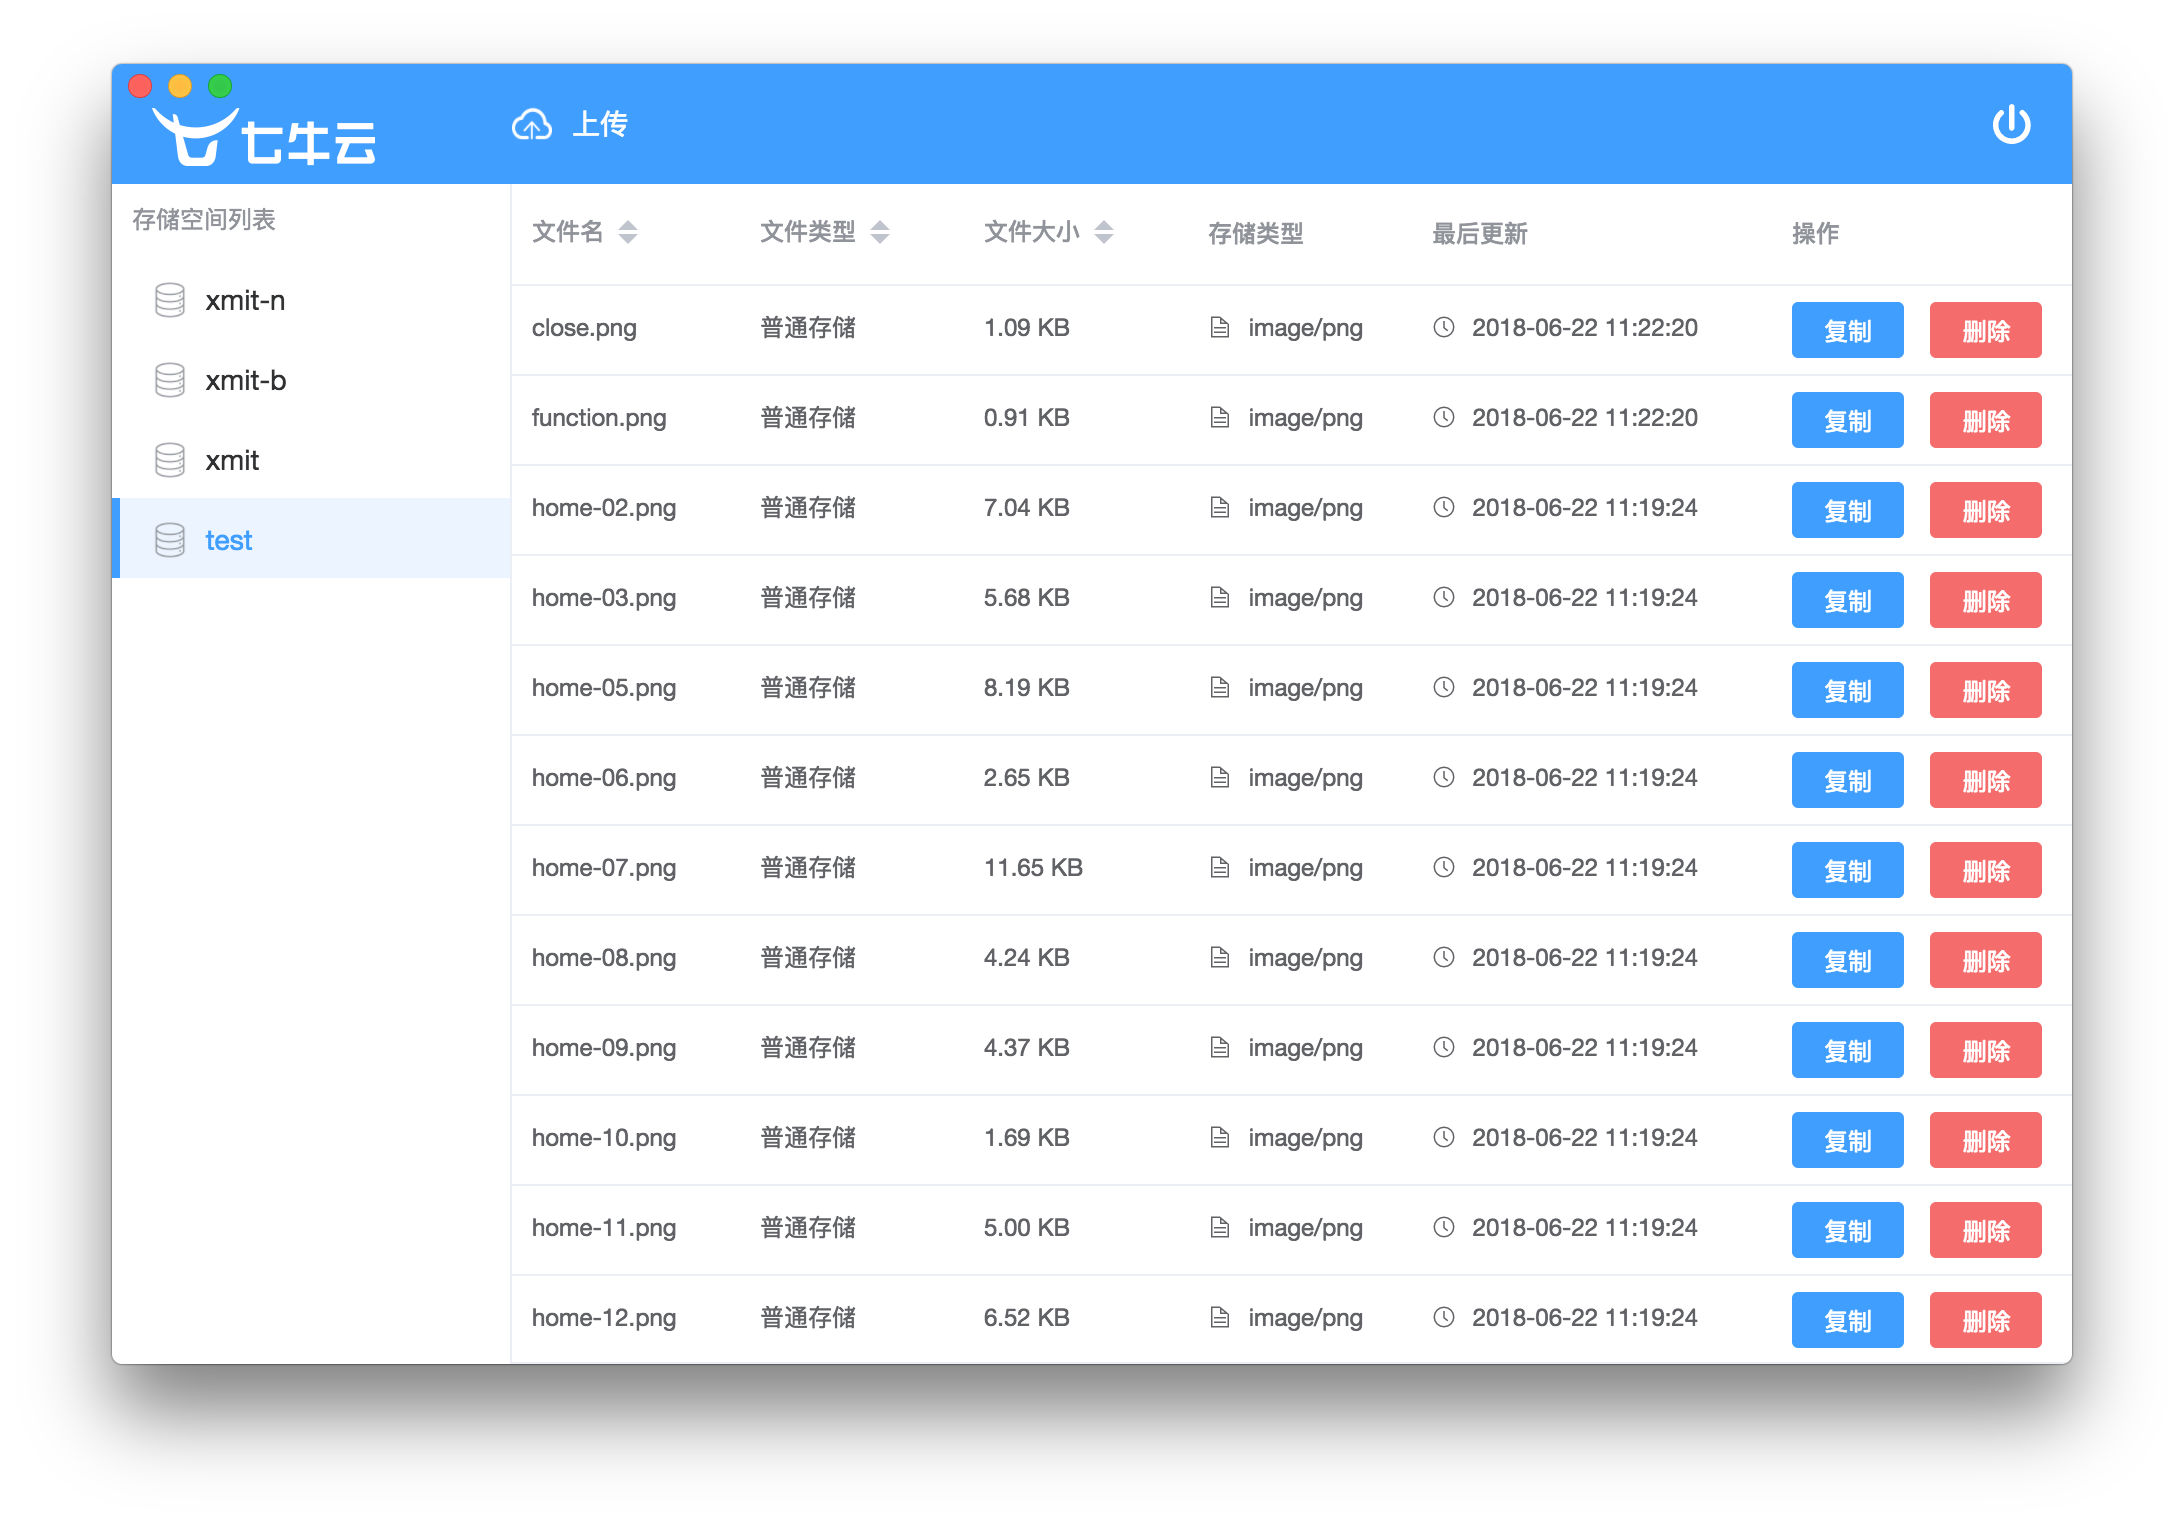
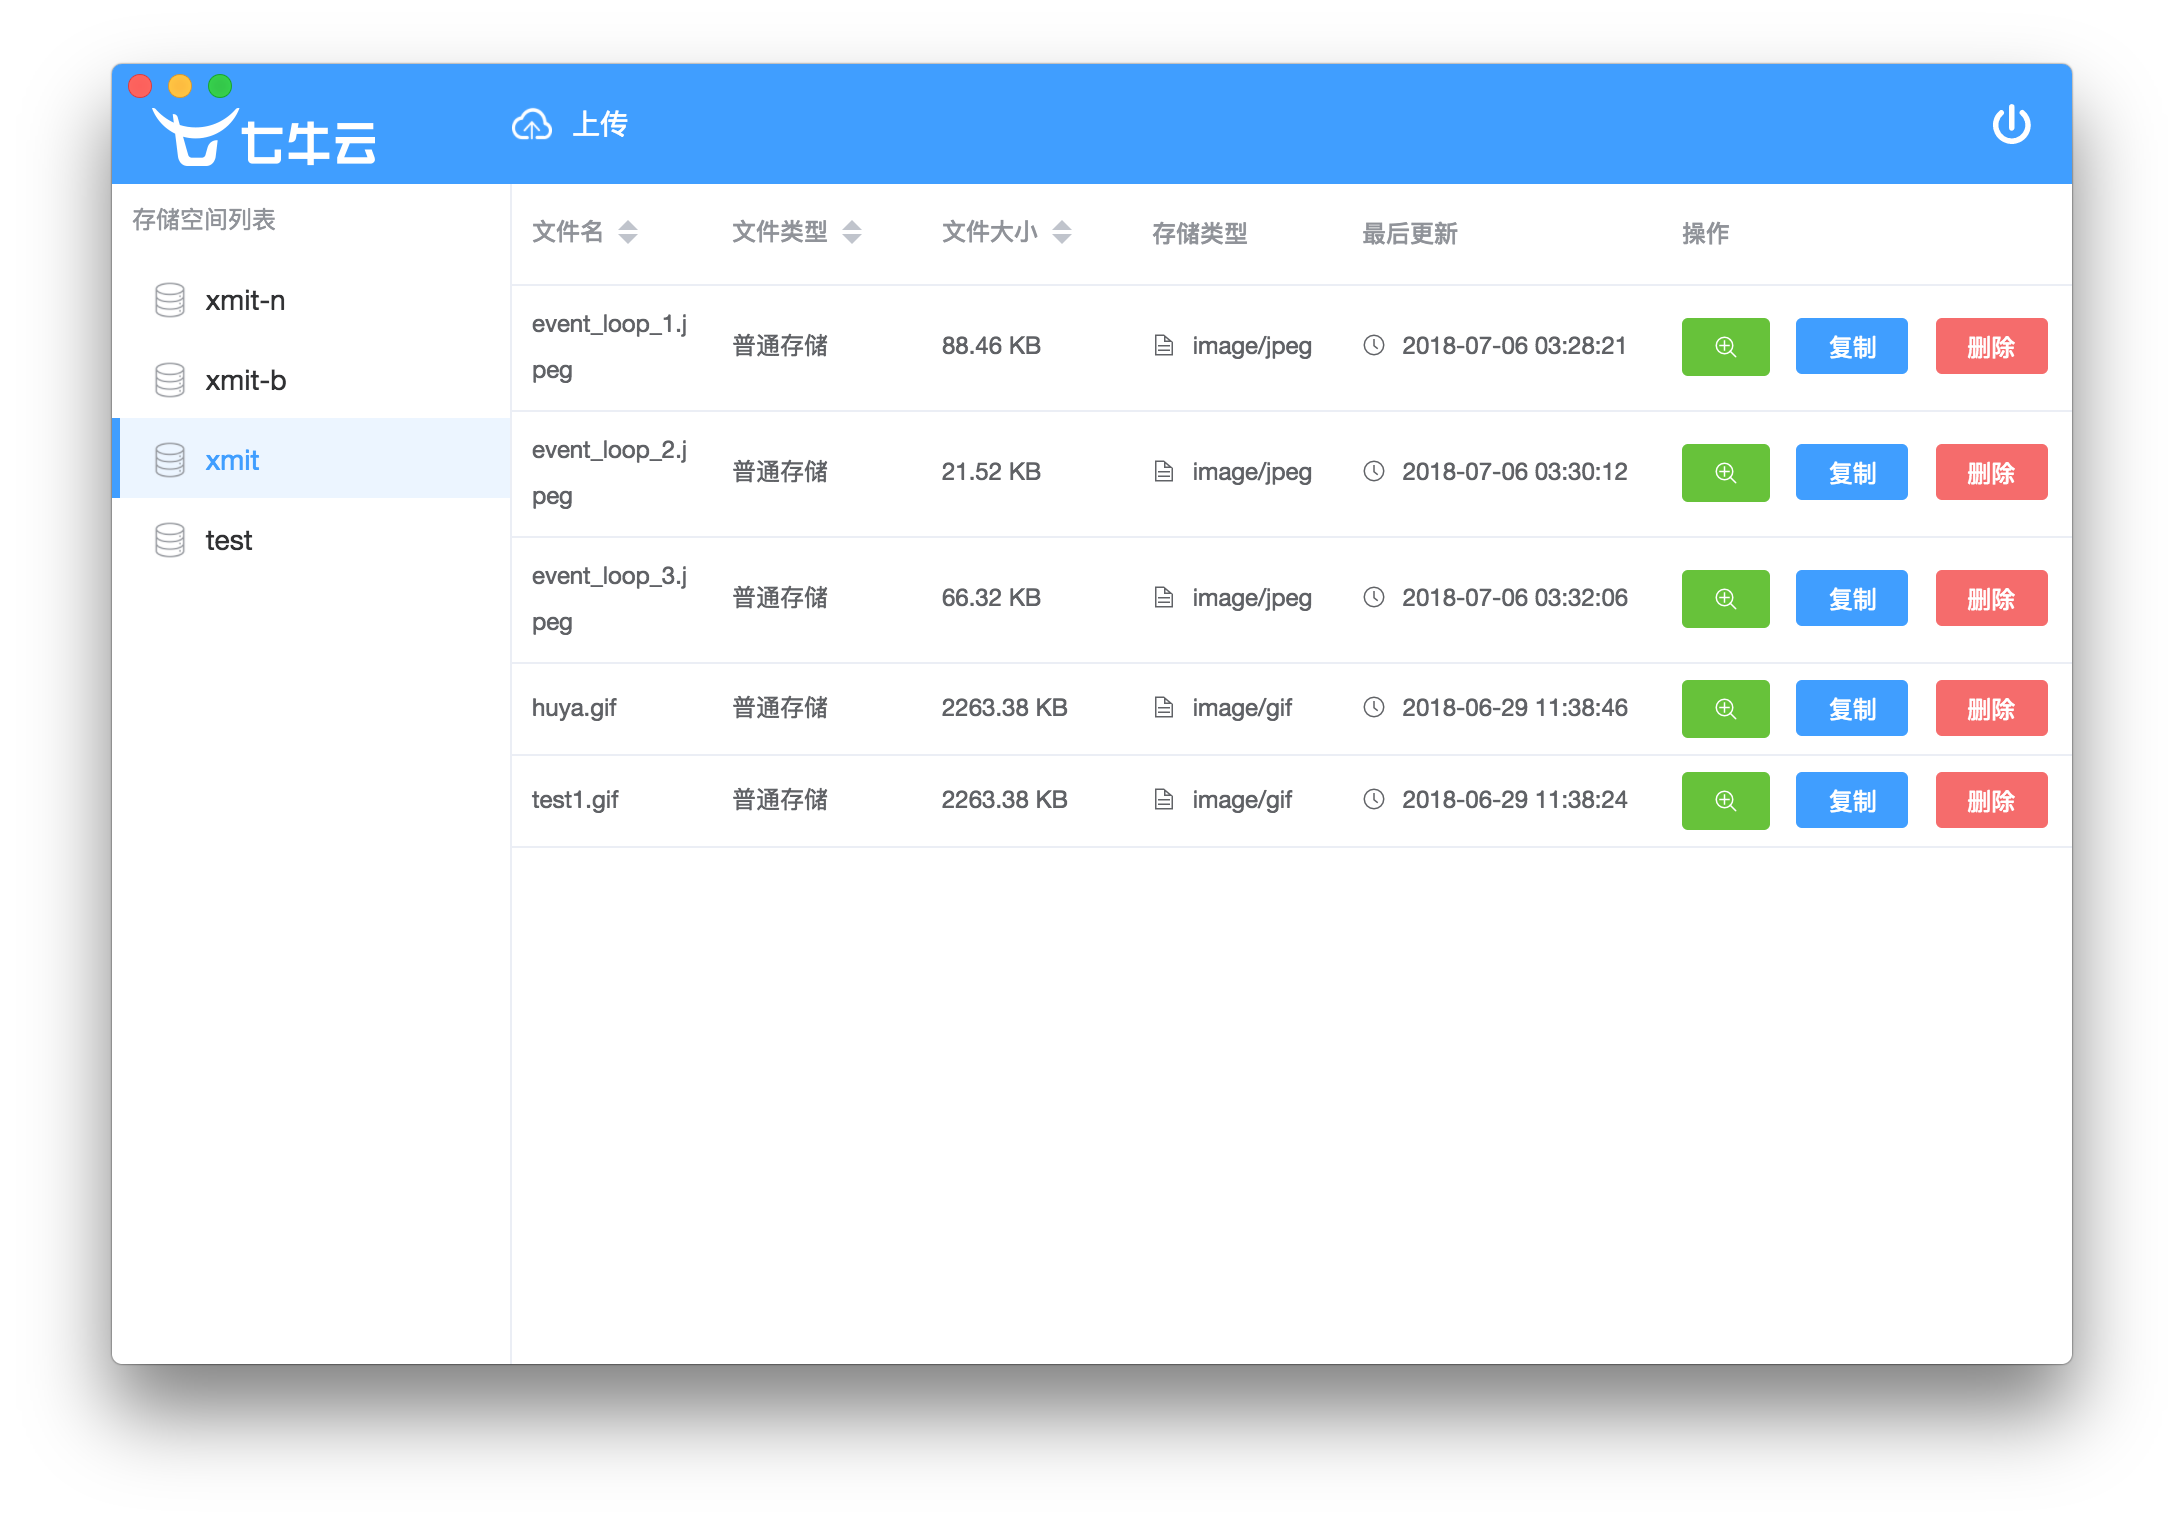
新增图片预览与下载功能

diff --git a/src/renderer/components/Manage/List.vue b/src/renderer/components/Manage/List.vue
@@ -1,7 +1,7 @@
 <template>
   <div class="privileges-table">
     <el-table :data="filterTableData" style="width: 100%" v-loading="loading" max-height="590" size="small">
-      <el-table-column prop="key" label="文件名" sortable>
+      <el-table-column prop="key" label="文件名" sortable width="100">
       </el-table-column>
       <el-table-column prop="type" label="文件类型" sortable>
       </el-table-column>
@@ -17,14 +17,15 @@
           <span style="margin-left: 5px">{{ scope.row.mimeType }}</span>
         </template>
       </el-table-column>
-      <el-table-column label="最后更新" width="180">
+      <el-table-column label="最后更新" width="160">
         <template slot-scope="scope">
           <i class="el-icon-time"></i>
           <span style="margin-left: 5px">{{ scope.row.putTime }}</span>
         </template>
       </el-table-column>
-      <el-table-column label="操作" width="150">
+      <el-table-column label="操作" width="205">
         <template slot-scope="scope">
+          <el-button size="mini" type="success" icon="el-icon-zoom-in" @click="preview(scope.$index, scope.row)"></el-button>
           <el-button size="mini" type="primary" @click="handleEdit(scope.$index, scope.row)">复制</el-button>
           <el-button size="mini" type="danger" @click="handleDelete(scope.$index, scope.row)">删除</el-button>
         </template>
@@ -33,9 +34,14 @@
     <el-dialog :title="title" :visible.sync="dialogFormVisible" @close="close">
       <Dialog :url="url" :postData="postData" :action="action" @onData="updateData"></Dialog>
     </el-dialog>
-    <!-- <div class="pagination">
-      <Pagination></Pagination>
-    </div> -->
+    <el-dialog title="预览" :visible.sync="PreviewDialogVisible" width="70%" class="previewimg">
+      <img :src="previewUrl" alt="previewimg">
+      <a :href="previewUrl" download="previewUrl" ref="img"></a>  
+      <span slot="footer" class="dialog-footer">
+        <el-button size="mini" @click="copy">复制</el-button>
+        <el-button size="mini" type="primary" @click="download">下载</el-button>
+      </span>
+    </el-dialog>
   </div>
 </template>
 
@@ -72,13 +78,15 @@ export default {
       loading: false,
       rowList: {},
       dialogFormVisible: false,
+      PreviewDialogVisible: false,
       currIndex: null,
       title: "",
       addStatus: false,
       search: "",
       AccessToken: "", // 存储空间列表 Authorization
       deleteAccessToken: "", // 删除资源 Authorization
-      EncodedEntryURI: "" // 删除资源
+      EncodedEntryURI: "", // 删除资源
+      previewUrl: ""
     };
   },
   methods: {
@@ -140,6 +148,23 @@ export default {
     },
     filterTag(value, row) {
       return row.tag === value;
+    },
+    preview(index, row) {
+      this.PreviewDialogVisible = true;
+      this.previewUrl = "http://" + this.url + "/" + row.key;
+    },
+    copy() {
+      this.PreviewDialogVisible = false;
+      if (this.previewUrl) {
+        clipboard.writeText(this.previewUrl);
+        this.$message.success("复制成功");
+      } else {
+        this.$message.success("复制失败");
+      }
+    },
+    download() {
+      this.$refs.img.click()
+      this.PreviewDialogVisible = false
     },
     handleEdit(index, row) {
       let copyurl = "http://" + this.url + "/" + row.key;
@@ -270,6 +295,12 @@ export default {
     background-color: #fff;
     padding: 15px 0;
     text-align: right;
+  }
+  .previewimg {
+    text-align: center;
+    img {
+     height: 300px;
+    }
   }
 }
 </style>
